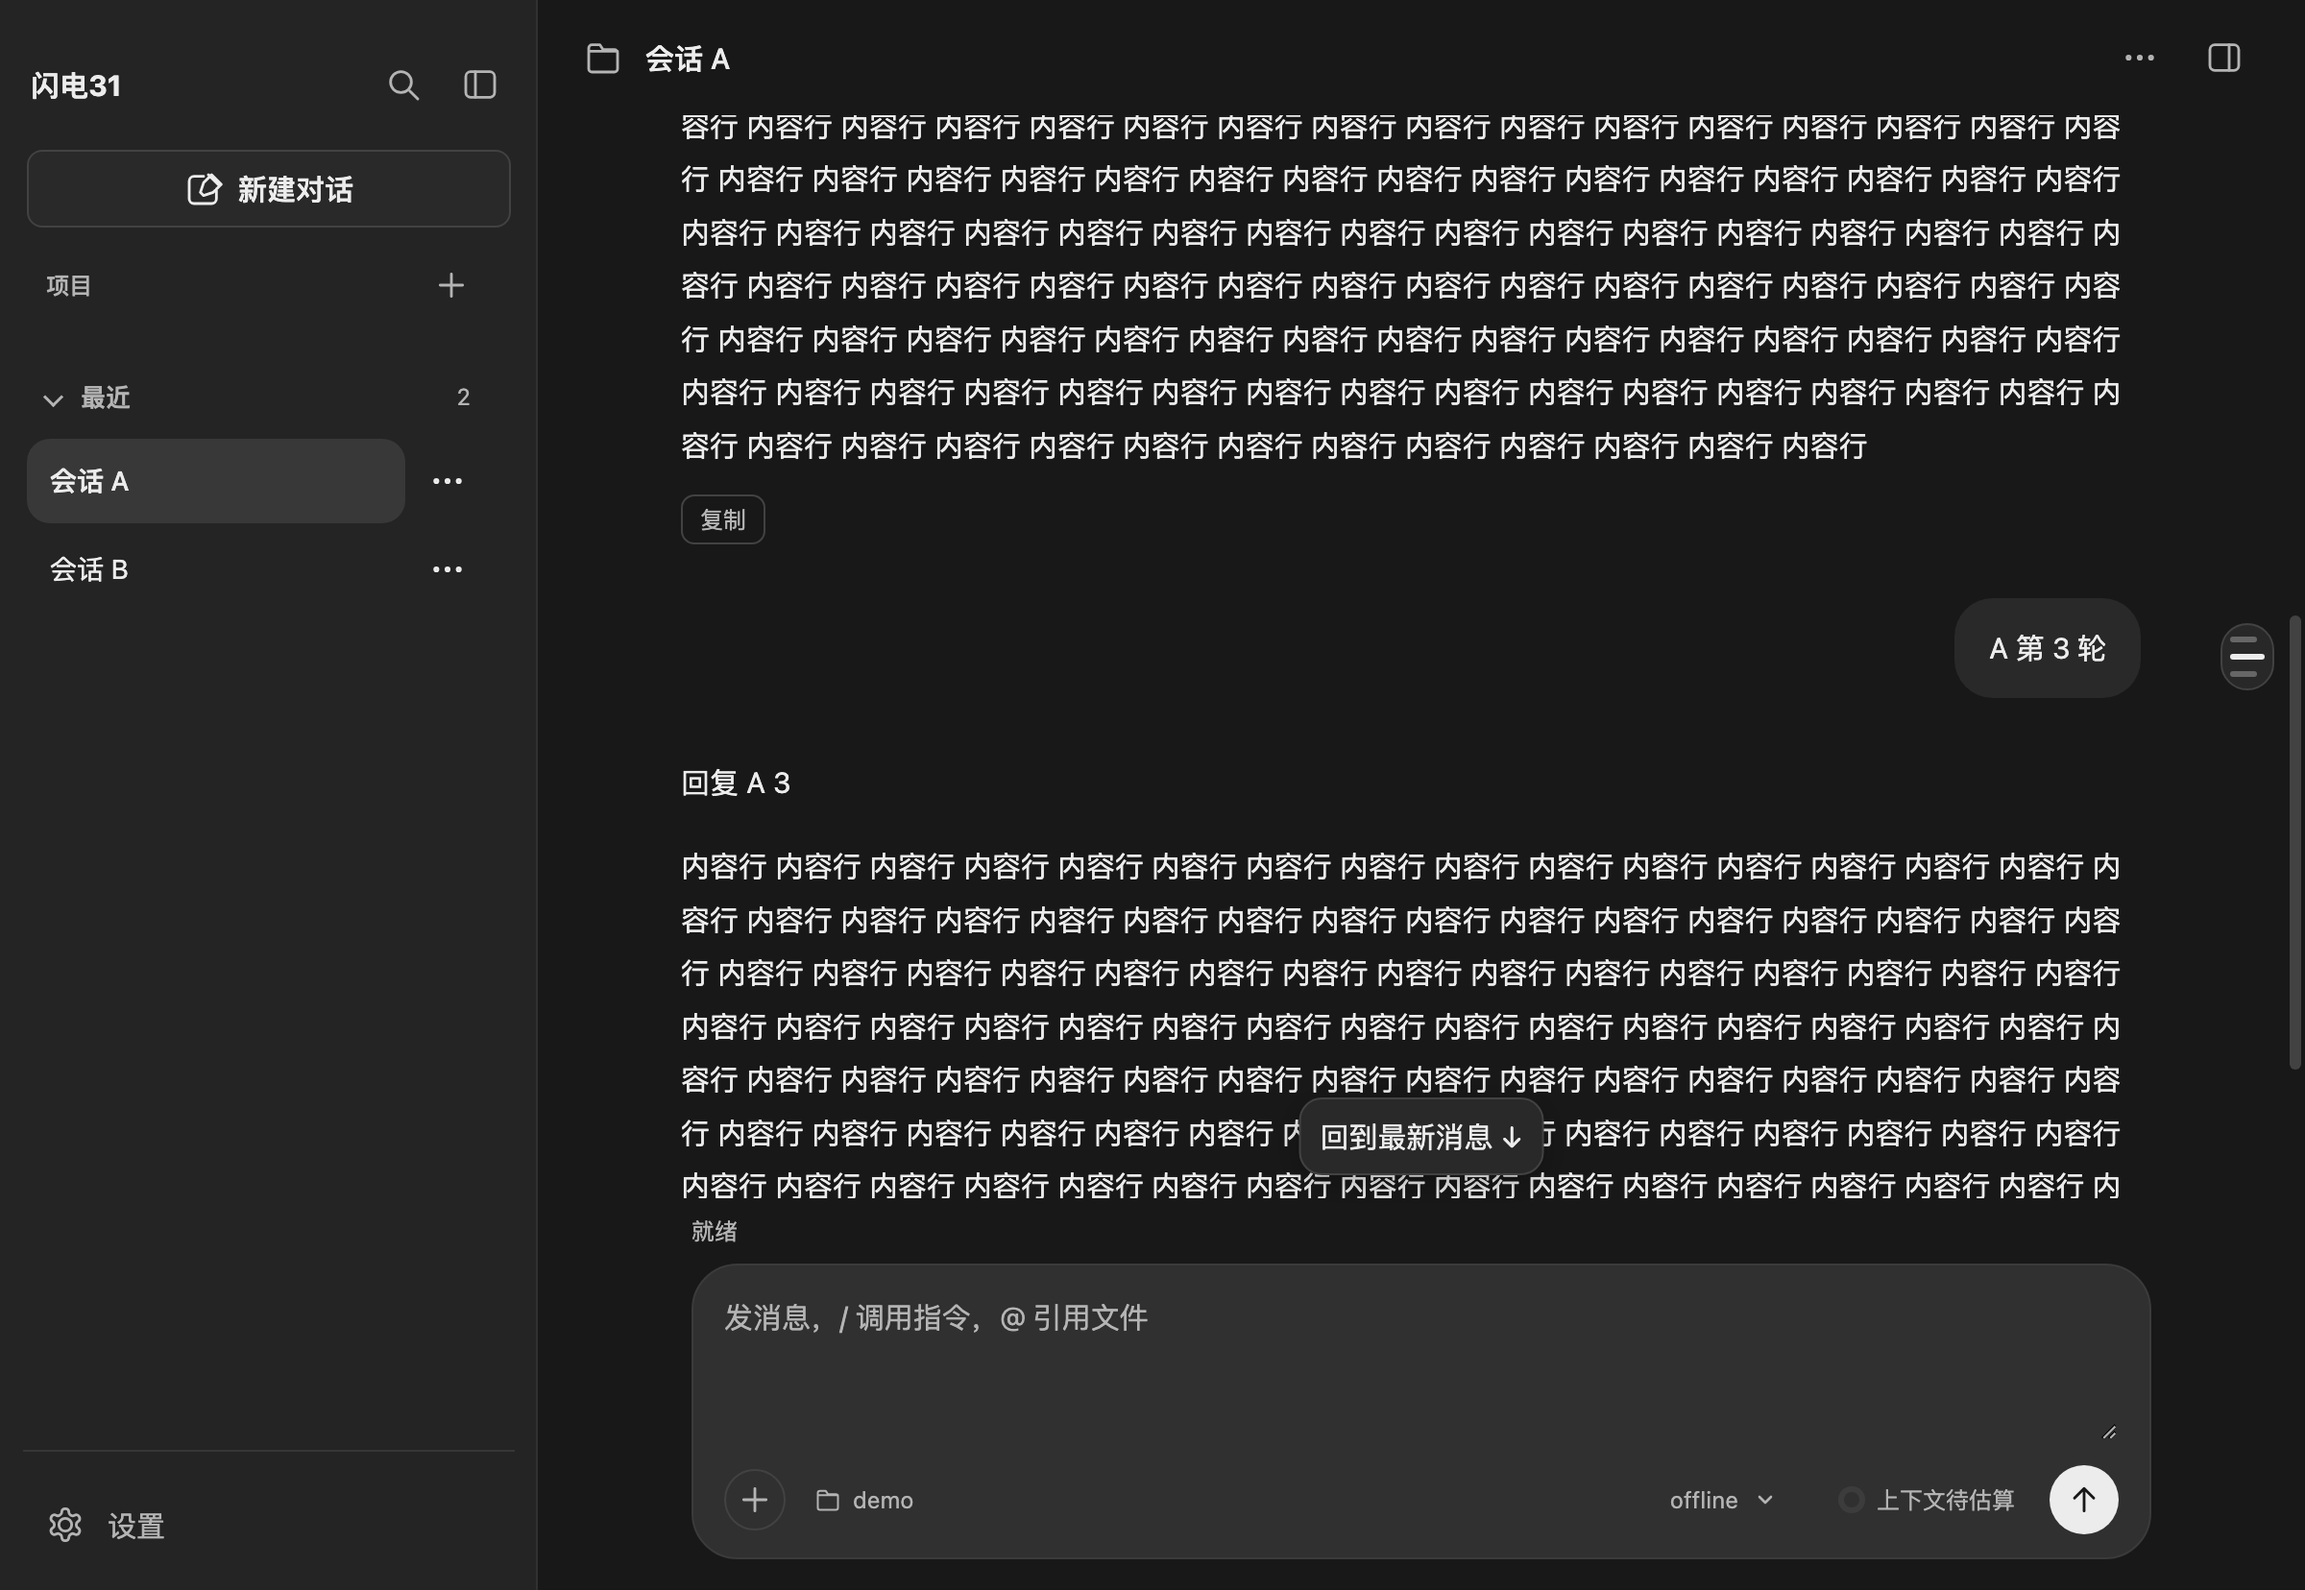
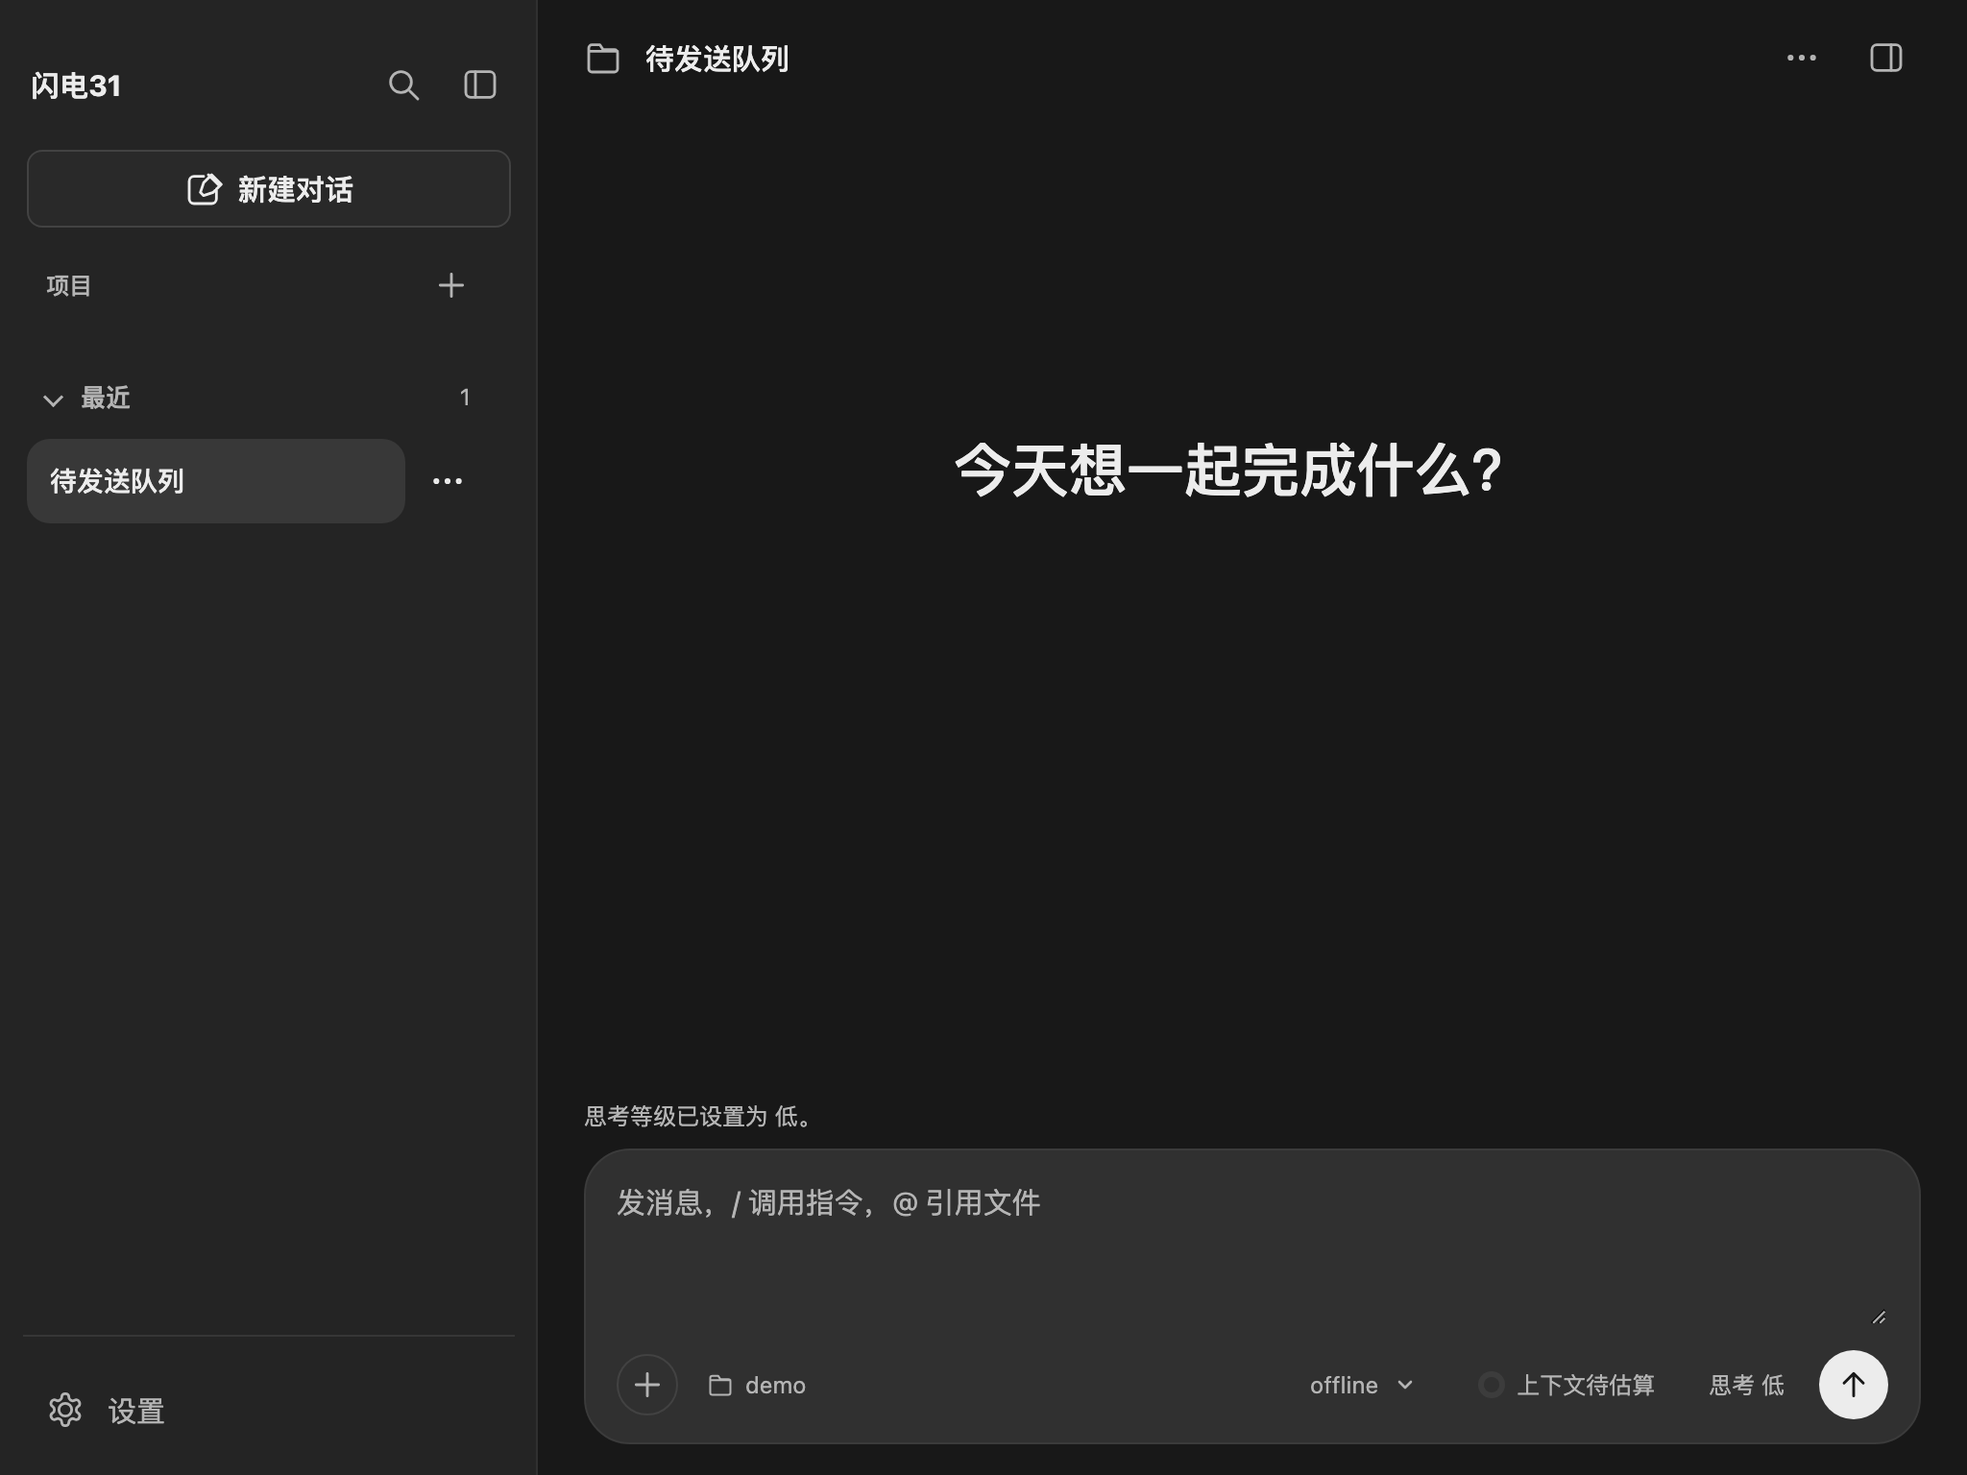
输入区支持切换思考等级

diff --git a/src/renderer/renderer.js b/src/renderer/renderer.js
@@ -32,6 +32,11 @@ const input = document.getElementById("message-input");
 // 工作区入口放在页面初始化阶段声明，会话信息回调可能早于输入区组件创建。
 const workspaceChip = document.getElementById("workspace-chip");
 const workspaceChipName = document.getElementById("workspace-chip-name");
+const thinkingPicker = document.getElementById("thinking-picker");
+const thinkingToggle = document.getElementById("thinking-toggle");
+const thinkingMenu = document.getElementById("thinking-menu");
+let thinkingState = { level: "", levels: [] };
+let thinkingBusy = false;
 const sendButton = document.getElementById("send-button");
 const stopButton = document.getElementById("stop-button");
 const templateSelect = document.getElementById("task-template-select");
@@ -619,6 +624,11 @@ const sessionInfoPanel = createSessionInfoPanel(
     onState: (state) => {
       contextUsage.render(state);
       renderWorkspaceChip(state.info?.workspaceDir);
+      thinkingState = {
+        level: state.info?.thinkingLevel ?? "",
+        levels: state.info?.thinkingLevels ?? [],
+      };
+      renderThinking();
     },
   },
 );
@@ -717,6 +727,9 @@ function setBusy(busy, generating = false) {
   pageGenerating = generating;
   const blocked = busy || closing || archiveSyncPending;
   sendQueueView?.setBusy(blocked);
+  thinkingBusy = blocked;
+  if (blocked) closeThinkingMenu();
+  renderThinking();
   // 关闭冻结与原操作忙碌分别保存；原 finally 不能提前解除关闭冻结。
   proposalPanelElement.disabled = blocked;
   modelSelector.setBusy(blocked);
@@ -1387,6 +1400,80 @@ async function pickFileReferences() {
     addFileButton.disabled = false;
   }
 }
+
+// 思考等级：与 /thinking 命令共用同一接口，只影响当前模型。
+const THINKING_LABELS = {
+  off: "关",
+  minimal: "最低",
+  low: "低",
+  medium: "中",
+  high: "高",
+  xhigh: "很高",
+  max: "最高",
+};
+
+function thinkingLabel(level) {
+  return THINKING_LABELS[level] ?? (level === "" ? "思考" : level);
+}
+
+function closeThinkingMenu() {
+  thinkingMenu.hidden = true;
+  thinkingToggle.setAttribute("aria-expanded", "false");
+}
+
+function renderThinking() {
+  const level = thinkingState.level;
+  const label = level === "" ? "思考" : `思考 ${thinkingLabel(level)}`;
+  thinkingToggle.textContent = label;
+  thinkingToggle.title = level === "" ? "思考等级" : `思考等级：${thinkingLabel(level)}`;
+  thinkingToggle.setAttribute("aria-label", thinkingToggle.title);
+  thinkingToggle.disabled = thinkingBusy || thinkingState.levels.length === 0;
+}
+
+function openThinkingMenu() {
+  if (thinkingToggle.disabled) return;
+  thinkingMenu.replaceChildren(...thinkingState.levels.map((level) => {
+    const option = document.createElement("button");
+    option.type = "button";
+    option.className = "thinking-option";
+    option.setAttribute("role", "option");
+    option.setAttribute("aria-selected", String(level === thinkingState.level));
+    option.textContent = thinkingLabel(level);
+    option.addEventListener("click", () => { void applyThinking(level); });
+    return option;
+  }));
+  thinkingMenu.hidden = false;
+  thinkingToggle.setAttribute("aria-expanded", "true");
+}
+
+async function applyThinking(level) {
+  closeThinkingMenu();
+  if (level === thinkingState.level) return;
+  thinkingToggle.disabled = true;
+  try {
+    await window.agent.setThinkingLevel(level);
+    await sessionInfoPanel.refresh();
+    setRequestStatus(`思考等级已设置为 ${thinkingLabel(level)}。`);
+  } catch (error) {
+    addMessage("error", error.message);
+  } finally {
+    renderThinking();
+  }
+}
+
+thinkingToggle.addEventListener("click", () => {
+  if (thinkingMenu.hidden) openThinkingMenu();
+  else closeThinkingMenu();
+});
+document.addEventListener("click", (event) => {
+  if (thinkingMenu.hidden || thinkingPicker.contains(event.target)) return;
+  closeThinkingMenu();
+});
+document.addEventListener("keydown", (event) => {
+  if (event.key !== "Escape" || thinkingMenu.hidden) return;
+  closeThinkingMenu();
+  thinkingToggle.focus();
+});
 
 // 工作区入口：显示当前目录名，点击展开右侧栏的文件浏览。
 function renderWorkspaceChip(workspaceDir) {

diff --git a/src/renderer/styles/codex-theme.css b/src/renderer/styles/codex-theme.css
@@ -594,6 +594,61 @@ select option {
   overflow: hidden;
   text-overflow: ellipsis;
 }
+.thinking-picker {
+  position: relative;
+  flex: none;
+}
+.thinking-toggle {
+  display: inline-flex;
+  align-items: center;
+  min-height: 32px;
+  padding: 4px 9px;
+  border: 1px solid transparent;
+  border-radius: 999px;
+  background: transparent;
+  color: var(--muted);
+  font-size: 12px;
+  white-space: nowrap;
+  cursor: pointer;
+}
+.thinking-toggle:hover:not(:disabled) {
+  color: var(--text);
+}
+.thinking-toggle:disabled {
+  opacity: 0.5;
+  cursor: default;
+}
+.thinking-menu {
+  position: absolute;
+  z-index: 30;
+  right: 0;
+  bottom: calc(100% + 6px);
+  min-width: 6rem;
+  padding: 4px;
+  border: 1px solid var(--border);
+  border-radius: 10px;
+  background: var(--surface);
+  box-shadow: 0 12px 32px var(--menu-shadow);
+}
+.thinking-menu[hidden] {
+  display: none;
+}
+.thinking-option {
+  display: block;
+  width: 100%;
+  padding: 6px 10px;
+  border: 0;
+  border-radius: 6px;
+  background: transparent;
+  color: var(--text);
+  font-size: 12px;
+  text-align: left;
+  cursor: pointer;
+}
+.thinking-option:hover,
+.thinking-option[aria-selected="true"] {
+  background: var(--hover);
+}
 .draft-toggle {
   display: flex;
   align-items: center;

diff --git a/src/renderer/index.html b/src/renderer/index.html
@@ -328,6 +328,11 @@
                 </section>
                 <span class="sr-only" role="status" aria-atomic="true" data-announcement></span>
               </div>
+              <div id="thinking-picker" class="thinking-picker">
+                <button id="thinking-toggle" class="thinking-toggle" type="button" aria-haspopup="listbox"
+                  aria-expanded="false" title="思考等级" aria-label="思考等级">思考</button>
+                <div id="thinking-menu" class="thinking-menu" role="listbox" aria-label="思考等级" hidden></div>
+              </div>
               <div class="send-actions">
                 <button id="stop-button" class="round-button" type="button" disabled aria-label="停止生成" title="停止生成（连按两次 Esc）">
                   <svg class="icon" aria-hidden="true">

diff --git a/docs/composer-optimization-assessment.md b/docs/composer-optimization-assessment.md
@@ -94,6 +94,12 @@
 - 说明：Pi 没有 DSH 的工作区权限沙箱，这里显示**真实工作目录**，不提供没有实际效果的权限选择器；Pi 原生工具仍可直接读写文件（见 AGENTS 的边界说明）。
 - 验证：`tests/ui/send-queue.check.cjs` 断言添加入口与工作目录名；`context-usage-page.check.cjs` 与 `sidebar-layout.check.cjs` 的窄窗无溢出检查通过。原生文件对话框需要人工验收。
 
+### 思考等级
+
+- 输入区控制行显示当前模型的思考等级（如「思考 高」），点击展开档位菜单；与 `/thinking` 命令共用同一接口，由 Pi 按模型记忆档位。
+- 生成中、关闭流程或没有可用档位时禁用；点击外部或 Esc 收起。
+- 验证：`tests/ui/send-queue.check.cjs` 断言标签、四个档位、选择「低」后标签更新且主进程收到 `low`。
+
 ### 生成中插话（⌘/Ctrl+Enter）
 
 - 生成中按 `⌘/Ctrl+Enter`：通过 Pi 的 `session.prompt(text, { streamingBehavior: "steer" })` 排队，在当前轮工具结束后、下一次模型请求前投递；普通 `Enter` 仍进入宿主侧待发送队列。
